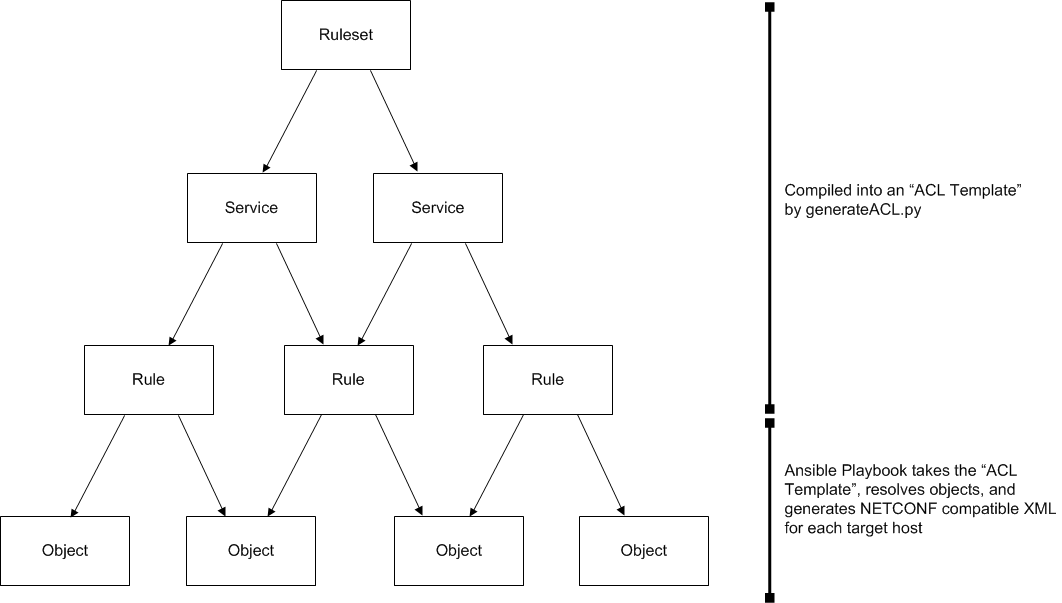
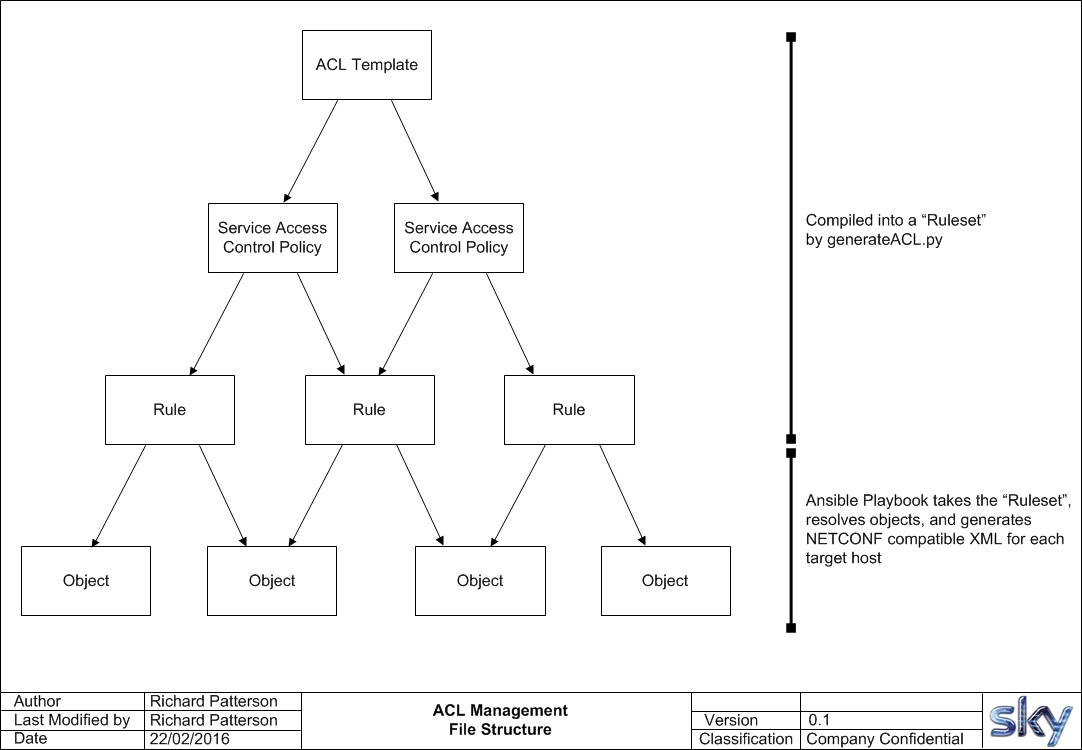
Reworded object definitions

diff --git a/README.md b/README.md
@@ -15,11 +15,11 @@ File Structure:
 Definitions:
 -----------------
 
-* Rulesets - A collection of services, description and target hosts.
-* Services - YAML mappings containing a list of rules and the owner of the service.
+* ACL Template - A collection of services, description and target hosts.
+* SACP - Service Access Control Policy. YAML mappings containing a list of rules and the owner of the service.
 * Rules - YAML mappings containing a rule definition, including source/destination IPs and ports and the action.
 * Objects - YAML mappings of common host/network/ip variables.  Can be recursive using Jinja2 variable syntax.
-* ACL Template - A compiled access list in YAML format still containing Jinja2 variables referencing objects.
+* Ruleset - A compiled access list in YAML format still containing Jinja2 variables referencing objects.
 * Compiled ACL - The end result, as either CLI configuration or YANG XML, generated by an Ansible playbook and Jinja2 templates.
 * Templates - The Jinja2 template files that convert a compiled ACL in to either CLI compatible config, or NETCONF compatible XML.
 
@@ -31,17 +31,17 @@ Usage:
 
 Update definition files in:
 
-    ./objects/    - Any object variables
-    ./rules/      - ACL rule definitions
-    ./services/   - Service definitions containing the above rule definitions
-    ./rulesets/   - A ruleset containing multiple services
+    ./objects/          - Any object variables
+    ./rules/            - ACL rule definitions
+    ./services/         - Service definitions containing the above rule definitions
+    ./ACL_templates/    - An ACL template containing multiple services
 
 *Note:* Any new object files added need to be included in the playbook.yml
 
 
 **Step 2:**
 
-Generate an ACL.yml template file with:
+Generate an ACL.yaml template file with:
 
     ./tools/generateRuleset.py <ruleset>
 
